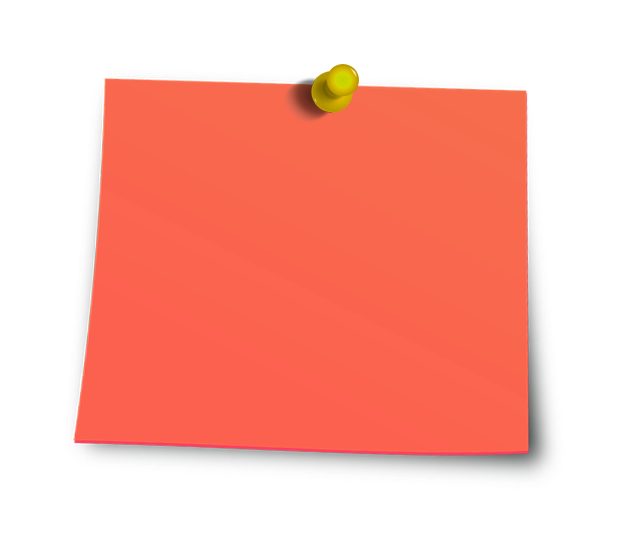
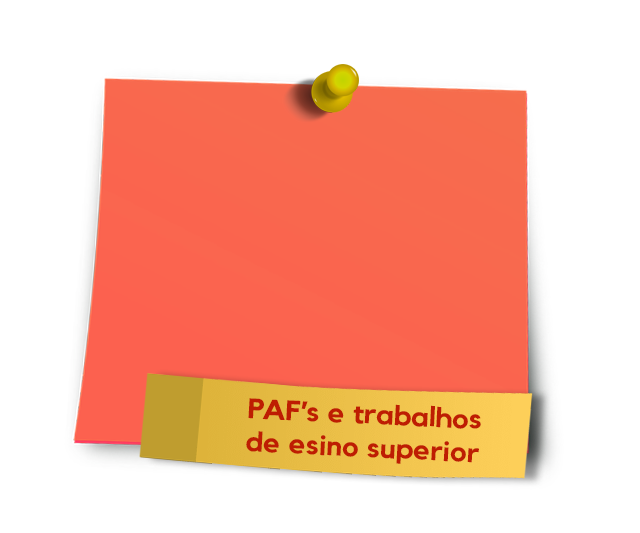
Changed text in footer. Changed postit image.

Changed region(s): [[0.2188, 0.6904, 0.875, 0.9006]]

diff --git a/trabalhos.html b/trabalhos.html
@@ -16,7 +16,7 @@
   <link rel="apple-touch-icon" sizes="144x144" href="/apple-icon-144x144.png">
   <link rel="apple-touch-icon" sizes="152x152" href="/apple-icon-152x152.png">
   <link rel="apple-touch-icon" sizes="180x180" href="/apple-icon-180x180.png">
-  <link rel="icon" type="image/png" sizes="192x192"  href="/android-icon-192x192.png">
+  <link rel="icon" type="image/png" sizes="192x192" href="/android-icon-192x192.png">
   <link rel="icon" type="image/png" sizes="32x32" href="/favicon-32x32.png">
   <link rel="icon" type="image/png" sizes="96x96" href="/favicon-96x96.png">
   <link rel="icon" type="image/png" sizes="16x16" href="/favicon-16x16.png">
@@ -308,58 +308,59 @@
     <i class="fas fa-bars"></i>
   </a> -->
   <nav id="mainNav" class="navbar navbar-expand-lg navbar-dark navbar-custom fixed-top" style="width: 100%!important">
-      <div class="container">
-        <a class="navbar-brand js-scroll-trigger active" href="index.html#head" title="UPstudy"><b>UPstudy</b></a>
-        <button class="navbar-toggler" type="button" data-toggle="collapse" data-target="#navbarResponsive"
-          aria-controls="navbarResponsive" aria-expanded="false" aria-label="Toggle navigation">
-          <span class="navbar-toggler-icon"></span>
-        </button>
-        <div class="collapse navbar-collapse" id="navbarResponsive">
-          <ul class="navbar-nav ml-auto">
-            <li class="nav-item">
-              <a class="nav-link js-scroll-trigger" href="index.html#head">HOME</a>
-            </li>
-            <li class="nav-item dropdown">
-              <a class="nav-link normal dropdown-toggle" data-toggle="dropdown" href="#" role="button"
-                aria-haspopup="true" aria-expanded="false" title="Serviços Fátima">SERVIÇOS</a>
-              <div class="dropdown-menu">
-                <a class="dropdown-item" href="explicacoes_indiv.html" title="Explicações Individuais">Explicações
-                  Individuais</a>
-                <div class="dropdown-divider"></div>
-                <a class="dropdown-item" href="explicacoes_grupo.html" title="Explicações em grupo">Explicações em
-                  grupo</a>
-                <div class="dropdown-divider"></div>
-                <a class="dropdown-item" href="acompanhamento.html" title="Acompanhamento Escolar">Acompanhamento
-                  Escolar</a>
-                <div class="dropdown-divider"></div>
-                <a class="dropdown-item" href="linguas.html" title="Línguas divertidas">Línguas divertidas</a>
-                <div class="dropdown-divider"></div>
-                <a class="dropdown-item" href="mindfulness.html" title="Mindfulness">Mindfulness</a>
-                <div class="dropdown-divider"></div>
-                <a class="dropdown-item" href="moodle.html" title="Plataforma Moodle UPstudy!a">Plataforma Moodle
-                  UPstudy!</a>
-                <div class="dropdown-divider"></div>
-                <a class="dropdown-item" href="trabalhos.html" title="Apoio na execução de trabalhos">Apoio na execução de
-                  trabalhos</a>
-                <div class="dropdown-divider"></div>
-                <a class="dropdown-item" href="transporte.html" title="Opção transporte">Opção transporte</a>
-                <div class="dropdown-divider"></div>
-                <a class="dropdown-item" href="parcerias.html" title="Parcerias e vantagens">Parcerias e vantagens</a>
-              </div>
-            </li>
-            <li class="nav-item">
-              <a class="nav-link js-scroll-trigger normal" href="parcerias.html" title="Parcerias Fátima">PARCERIAS</a>
-            </li>
-            <li class="nav-item">
-              <a class="nav-link js-scroll-trigger normal" href="index.html#form" title="Parcerias Fátima">INSCREVE-TE</a>
-            </li>
-            <li class="nav-item">
-              <a class="nav-link js-scroll-trigger normal" href="index.html#contact" title="Contactos Fátima">ENCONTRA-NOS</a>
-            </li>
-          </ul>
-        </div>
+    <div class="container">
+      <a class="navbar-brand js-scroll-trigger active" href="index.html#head" title="UPstudy"><b>UPstudy</b></a>
+      <button class="navbar-toggler" type="button" data-toggle="collapse" data-target="#navbarResponsive"
+        aria-controls="navbarResponsive" aria-expanded="false" aria-label="Toggle navigation">
+        <span class="navbar-toggler-icon"></span>
+      </button>
+      <div class="collapse navbar-collapse" id="navbarResponsive">
+        <ul class="navbar-nav ml-auto">
+          <li class="nav-item">
+            <a class="nav-link js-scroll-trigger" href="index.html#head">HOME</a>
+          </li>
+          <li class="nav-item dropdown">
+            <a class="nav-link normal dropdown-toggle" data-toggle="dropdown" href="#" role="button"
+              aria-haspopup="true" aria-expanded="false" title="Serviços Fátima">SERVIÇOS</a>
+            <div class="dropdown-menu">
+              <a class="dropdown-item" href="explicacoes_indiv.html" title="Explicações Individuais">Explicações
+                Individuais</a>
+              <div class="dropdown-divider"></div>
+              <a class="dropdown-item" href="explicacoes_grupo.html" title="Explicações em grupo">Explicações em
+                grupo</a>
+              <div class="dropdown-divider"></div>
+              <a class="dropdown-item" href="acompanhamento.html" title="Acompanhamento Escolar">Acompanhamento
+                Escolar</a>
+              <div class="dropdown-divider"></div>
+              <a class="dropdown-item" href="linguas.html" title="Línguas divertidas">Línguas divertidas</a>
+              <div class="dropdown-divider"></div>
+              <a class="dropdown-item" href="mindfulness.html" title="Mindfulness">Mindfulness</a>
+              <div class="dropdown-divider"></div>
+              <a class="dropdown-item" href="moodle.html" title="Plataforma Moodle UPstudy!a">Plataforma Moodle
+                UPstudy!</a>
+              <div class="dropdown-divider"></div>
+              <a class="dropdown-item" href="trabalhos.html" title="Apoio na execução de trabalhos">Apoio na execução de
+                trabalhos</a>
+              <div class="dropdown-divider"></div>
+              <a class="dropdown-item" href="transporte.html" title="Opção transporte">Opção transporte</a>
+              <div class="dropdown-divider"></div>
+              <a class="dropdown-item" href="parcerias.html" title="Parcerias e vantagens">Parcerias e vantagens</a>
+            </div>
+          </li>
+          <li class="nav-item">
+            <a class="nav-link js-scroll-trigger normal" href="parcerias.html" title="Parcerias Fátima">PARCERIAS</a>
+          </li>
+          <li class="nav-item">
+            <a class="nav-link js-scroll-trigger normal" href="index.html#form" title="Parcerias Fátima">INSCREVE-TE</a>
+          </li>
+          <li class="nav-item">
+            <a class="nav-link js-scroll-trigger normal" href="index.html#contact"
+              title="Contactos Fátima">ENCONTRA-NOS</a>
+          </li>
+        </ul>
       </div>
-    </nav>
+    </div>
+  </nav>
 
   <div class="jumbotron"
     style="height: 400px;background-image: url('img/homework1.jpg');border-radius: 0!important;margin-bottom: 0!important">
@@ -427,7 +428,7 @@
           <div class="col-xs-12 col-sm-4 col-md-4  mb30">
             <h4 class="fsize16 text-uppercase mb20 fw500">Onde Estamos</h4>
             <span class="fw600">UPstudy - Salas de Estudo</span> <br>
-            Av. D. José Alves Correia da Silva, 202, Ed. Sinai, Piso 1, Loja 4<br>
+            Av. D. José Alves Correia da Silva, 202, Ed. Sinai, Piso 1, Lj. 4<br>
             2495-402 Fátima <br>
             <p class="mtop20"><a
                 href="https://www.google.pt/maps/dir//UPstudy+-+Salas+de+estudo,+Loja+4,+F%C3%A1tima/@39.6273867,-8.7095155,13z/data=!4m9!4m8!1m0!1m5!1m1!1s0xd189d3b232ad757:0x8848937355adc014!2m2!1d-8.674496!2d39.627392!3e0"
@@ -447,7 +448,8 @@
         </div>
       </div>
       <div class="container text-right">
-        <a href="https://github.com/DNTM2802" target="_blank"><span class="badge badge-light"><small>by</small> Duarte Mortágua</span></a>
+        <a href="https://github.com/DNTM2802" target="_blank"><span class="badge badge-light"><small>by</small> Duarte
+            Mortágua</span></a>
       </div>
     </div>
     <div class="footer-below">

diff --git a/index.html b/index.html
@@ -413,7 +413,7 @@
             UPstudy!</a>
         </div>
         <div id="postit7" class="postit col-lg-4 col-md-4 col-sm-12 zoom"
-          style="background-image: url('img/postit1.png')">
+          style="background-image: url('img/postit6.png')">
           <a href="trabalhos.html"
             style="color:#212529;font-size:1.5rem;font-weight:bold;transform: rotate(2deg);">Apoio na execução de
             trabalhos</a>
@@ -523,8 +523,8 @@
           <img class="d-block w-100" src="img/slideshow_0.jpg" alt="First slide">
           <div class="carousel-caption d-none d-md-block">
             <h5>Um centro de explicações que se destaca</h5>
-            <p>Além das explicações e do acompanhamento do aluno, dastaca-se o esforço diário para o bem estar do aluno
-              e a promoção de plataformas de aprendizagem como o <b>Moodle</b>!</p>
+            <p>Além das explicações e do acompanhamento do aluno, dastaca-se o esforço diário para o seu bem estar e a
+              promoção de plataformas de aprendizagem como o <b>Moodle</b>!</p>
           </div>
         </div>
         <div class="carousel-item">
@@ -884,7 +884,7 @@
           <div class="col-xs-12 col-sm-4 col-md-4  mb30">
             <h4 class="fsize16 text-uppercase mb20 fw500">Onde Estamos</h4>
             <span class="fw600">UPstudy - Salas de Estudo</span> <br>
-            Av. D. José Alves Correia da Silva, 202, Ed. Sinai, Piso 1, Loja 4<br>
+            Av. D. José Alves Correia da Silva, 202, Ed. Sinai, Piso 1, Lj. 4<br>
             2495-402 Fátima <br>
             <p class="mtop20"><a
                 href="https://www.google.pt/maps/dir//UPstudy+-+Salas+de+estudo,+Loja+4,+F%C3%A1tima/@39.6273867,-8.7095155,13z/data=!4m9!4m8!1m0!1m5!1m1!1s0xd189d3b232ad757:0x8848937355adc014!2m2!1d-8.674496!2d39.627392!3e0"
@@ -904,7 +904,8 @@
         </div>
       </div>
       <div class="container text-right">
-        <a href="https://github.com/DNTM2802" target="_blank"><span class="badge badge-light"><small>by</small> Duarte Mortágua</span></a>
+        <a href="https://github.com/DNTM2802" target="_blank"><span class="badge badge-light"><small>by</small> Duarte
+            Mortágua</span></a>
       </div>
     </div>
 

diff --git a/acompanhamento.html b/acompanhamento.html
@@ -431,7 +431,7 @@
           <div class="col-xs-12 col-sm-4 col-md-4  mb30">
             <h4 class="fsize16 text-uppercase mb20 fw500">Onde Estamos</h4>
             <span class="fw600">UPstudy - Salas de Estudo</span> <br>
-            Av. D. José Alves Correia da Silva, 202, Ed. Sinai, Piso 1, Loja 4<br>
+            Av. D. José Alves Correia da Silva, 202, Ed. Sinai, Piso 1, Lj. 4<br>
             2495-402 Fátima <br>
             <p class="mtop20"><a
                 href="https://www.google.pt/maps/dir//UPstudy+-+Salas+de+estudo,+Loja+4,+F%C3%A1tima/@39.6273867,-8.7095155,13z/data=!4m9!4m8!1m0!1m5!1m1!1s0xd189d3b232ad757:0x8848937355adc014!2m2!1d-8.674496!2d39.627392!3e0"

diff --git a/explicacoes_grupo.html b/explicacoes_grupo.html
@@ -432,7 +432,7 @@
           <div class="col-xs-12 col-sm-4 col-md-4  mb30">
             <h4 class="fsize16 text-uppercase mb20 fw500">Onde Estamos</h4>
             <span class="fw600">UPstudy - Salas de Estudo</span> <br>
-            Av. D. José Alves Correia da Silva, 202, Ed. Sinai, Piso 1, Loja 4<br>
+            Av. D. José Alves Correia da Silva, 202, Ed. Sinai, Piso 1, Lj. 4<br>
             2495-402 Fátima <br>
             <p class="mtop20"><a
                 href="https://www.google.pt/maps/dir//UPstudy+-+Salas+de+estudo,+Loja+4,+F%C3%A1tima/@39.6273867,-8.7095155,13z/data=!4m9!4m8!1m0!1m5!1m1!1s0xd189d3b232ad757:0x8848937355adc014!2m2!1d-8.674496!2d39.627392!3e0"

diff --git a/explicacoes_indiv.html b/explicacoes_indiv.html
@@ -431,7 +431,7 @@
           <div class="col-xs-12 col-sm-4 col-md-4  mb30">
             <h4 class="fsize16 text-uppercase mb20 fw500">Onde Estamos</h4>
             <span class="fw600">UPstudy - Salas de Estudo</span> <br>
-            Av. D. José Alves Correia da Silva, 202, Ed. Sinai, Piso 1, Loja 4<br>
+            Av. D. José Alves Correia da Silva, 202, Ed. Sinai, Piso 1, Lj. 4<br>
             2495-402 Fátima <br>
             <p class="mtop20"><a
                 href="https://www.google.pt/maps/dir//UPstudy+-+Salas+de+estudo,+Loja+4,+F%C3%A1tima/@39.6273867,-8.7095155,13z/data=!4m9!4m8!1m0!1m5!1m1!1s0xd189d3b232ad757:0x8848937355adc014!2m2!1d-8.674496!2d39.627392!3e0"

diff --git a/linguas.html b/linguas.html
@@ -432,7 +432,7 @@
           <div class="col-xs-12 col-sm-4 col-md-4  mb30">
             <h4 class="fsize16 text-uppercase mb20 fw500">Onde Estamos</h4>
             <span class="fw600">UPstudy - Salas de Estudo</span> <br>
-            Av. D. José Alves Correia da Silva, 202, Ed. Sinai, Piso 1, Loja 4<br>
+            Av. D. José Alves Correia da Silva, 202, Ed. Sinai, Piso 1, Lj. 4<br>
             2495-402 Fátima <br>
             <p class="mtop20"><a
                 href="https://www.google.pt/maps/dir//UPstudy+-+Salas+de+estudo,+Loja+4,+F%C3%A1tima/@39.6273867,-8.7095155,13z/data=!4m9!4m8!1m0!1m5!1m1!1s0xd189d3b232ad757:0x8848937355adc014!2m2!1d-8.674496!2d39.627392!3e0"

diff --git a/mindfulness.html b/mindfulness.html
@@ -433,7 +433,7 @@
           <div class="col-xs-12 col-sm-4 col-md-4  mb30">
             <h4 class="fsize16 text-uppercase mb20 fw500">Onde Estamos</h4>
             <span class="fw600">UPstudy - Salas de Estudo</span> <br>
-            Av. D. José Alves Correia da Silva, 202, Ed. Sinai, Piso 1, Loja 4<br>
+            Av. D. José Alves Correia da Silva, 202, Ed. Sinai, Piso 1, Lj. 4<br>
             2495-402 Fátima <br>
             <p class="mtop20"><a
                 href="https://www.google.pt/maps/dir//UPstudy+-+Salas+de+estudo,+Loja+4,+F%C3%A1tima/@39.6273867,-8.7095155,13z/data=!4m9!4m8!1m0!1m5!1m1!1s0xd189d3b232ad757:0x8848937355adc014!2m2!1d-8.674496!2d39.627392!3e0"

diff --git a/moodle.html b/moodle.html
@@ -438,7 +438,7 @@
           <div class="col-xs-12 col-sm-4 col-md-4  mb30">
             <h4 class="fsize16 text-uppercase mb20 fw500">Onde Estamos</h4>
             <span class="fw600">UPstudy - Salas de Estudo</span> <br>
-            Av. D. José Alves Correia da Silva, 202, Ed. Sinai, Piso 1, Loja 4<br>
+            Av. D. José Alves Correia da Silva, 202, Ed. Sinai, Piso 1, Lj. 4<br>
             2495-402 Fátima <br>
             <p class="mtop20"><a
                 href="https://www.google.pt/maps/dir//UPstudy+-+Salas+de+estudo,+Loja+4,+F%C3%A1tima/@39.6273867,-8.7095155,13z/data=!4m9!4m8!1m0!1m5!1m1!1s0xd189d3b232ad757:0x8848937355adc014!2m2!1d-8.674496!2d39.627392!3e0"

diff --git a/parcerias.html b/parcerias.html
@@ -542,7 +542,7 @@
           <div class="col-xs-12 col-sm-4 col-md-4  mb30">
             <h4 class="fsize16 text-uppercase mb20 fw500">Onde Estamos</h4>
             <span class="fw600">UPstudy - Salas de Estudo</span> <br>
-            Av. D. José Alves Correia da Silva, 202, Ed. Sinai, Piso 1, Loja 4<br>
+            Av. D. José Alves Correia da Silva, 202, Ed. Sinai, Piso 1, Lj. 4<br>
             2495-402 Fátima <br>
             <p class="mtop20"><a
                 href="https://www.google.pt/maps/dir//UPstudy+-+Salas+de+estudo,+Loja+4,+F%C3%A1tima/@39.6273867,-8.7095155,13z/data=!4m9!4m8!1m0!1m5!1m1!1s0xd189d3b232ad757:0x8848937355adc014!2m2!1d-8.674496!2d39.627392!3e0"

diff --git a/transporte.html b/transporte.html
@@ -427,7 +427,7 @@
           <div class="col-xs-12 col-sm-4 col-md-4  mb30">
             <h4 class="fsize16 text-uppercase mb20 fw500">Onde Estamos</h4>
             <span class="fw600">UPstudy - Salas de Estudo</span> <br>
-            Av. D. José Alves Correia da Silva, 202, Ed. Sinai, Piso 1, Loja 4<br>
+            Av. D. José Alves Correia da Silva, 202, Ed. Sinai, Piso 1, Lj. 4<br>
             2495-402 Fátima <br>
             <p class="mtop20"><a
                 href="https://www.google.pt/maps/dir//UPstudy+-+Salas+de+estudo,+Loja+4,+F%C3%A1tima/@39.6273867,-8.7095155,13z/data=!4m9!4m8!1m0!1m5!1m1!1s0xd189d3b232ad757:0x8848937355adc014!2m2!1d-8.674496!2d39.627392!3e0"
